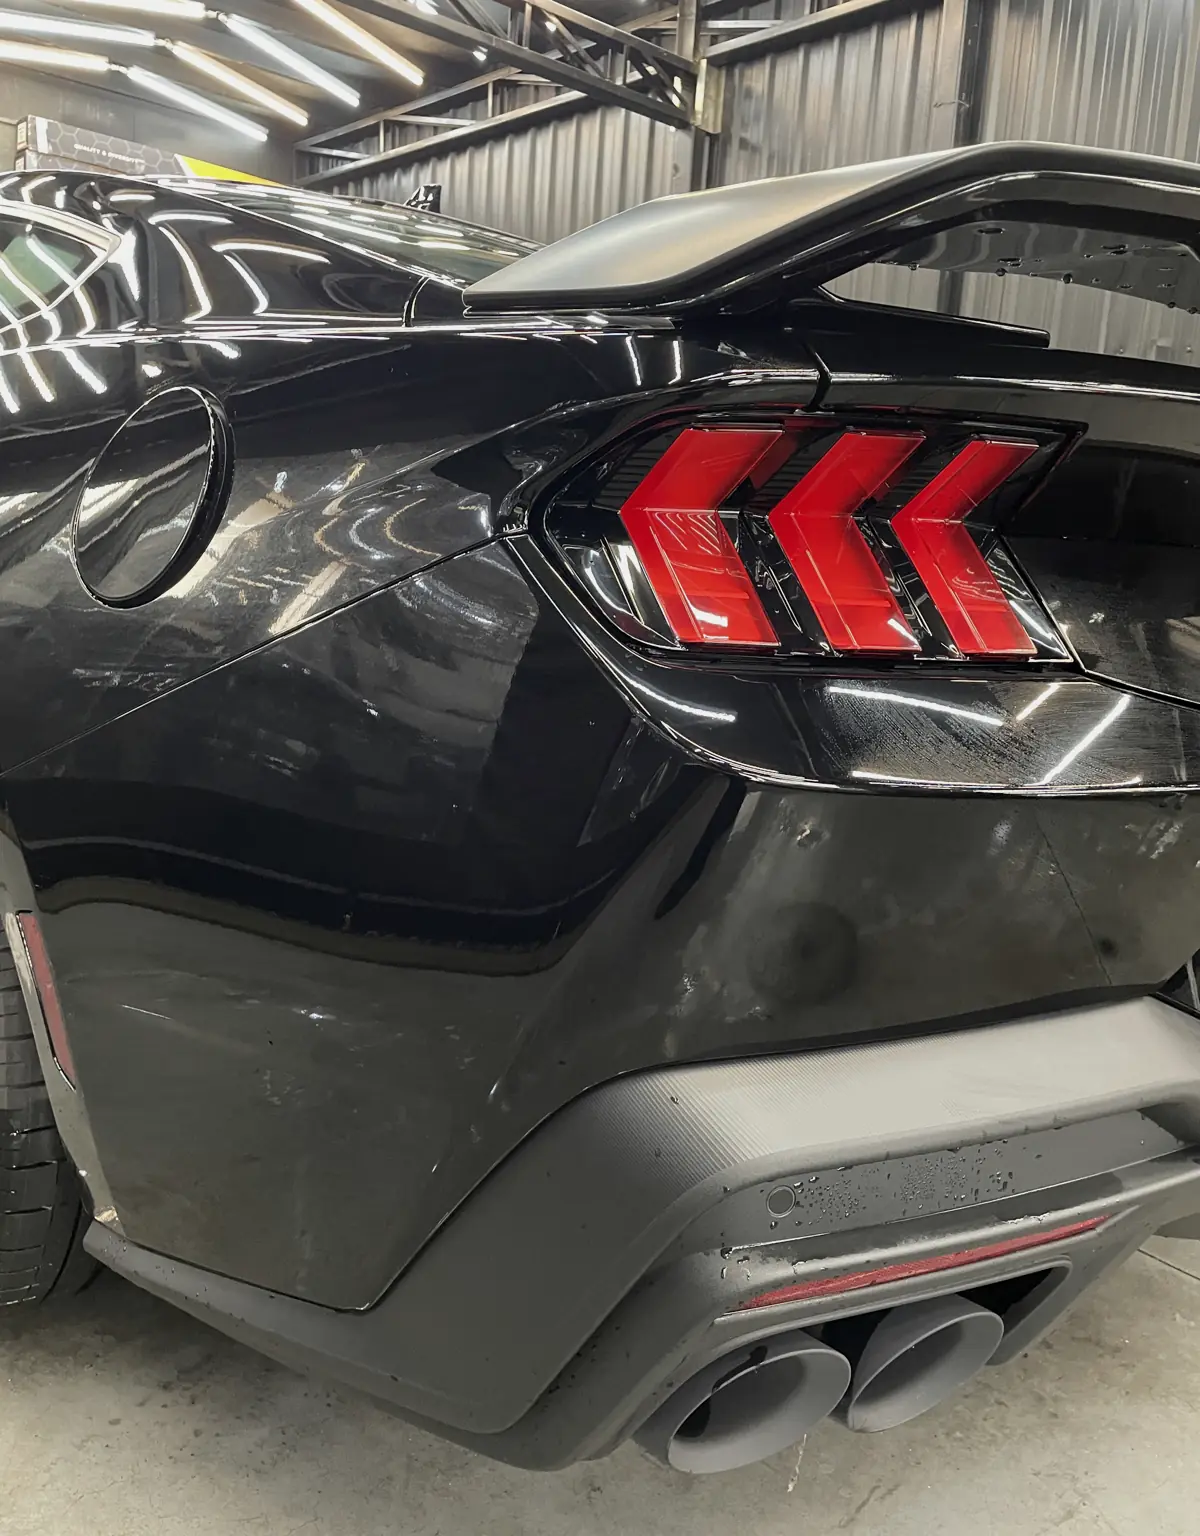
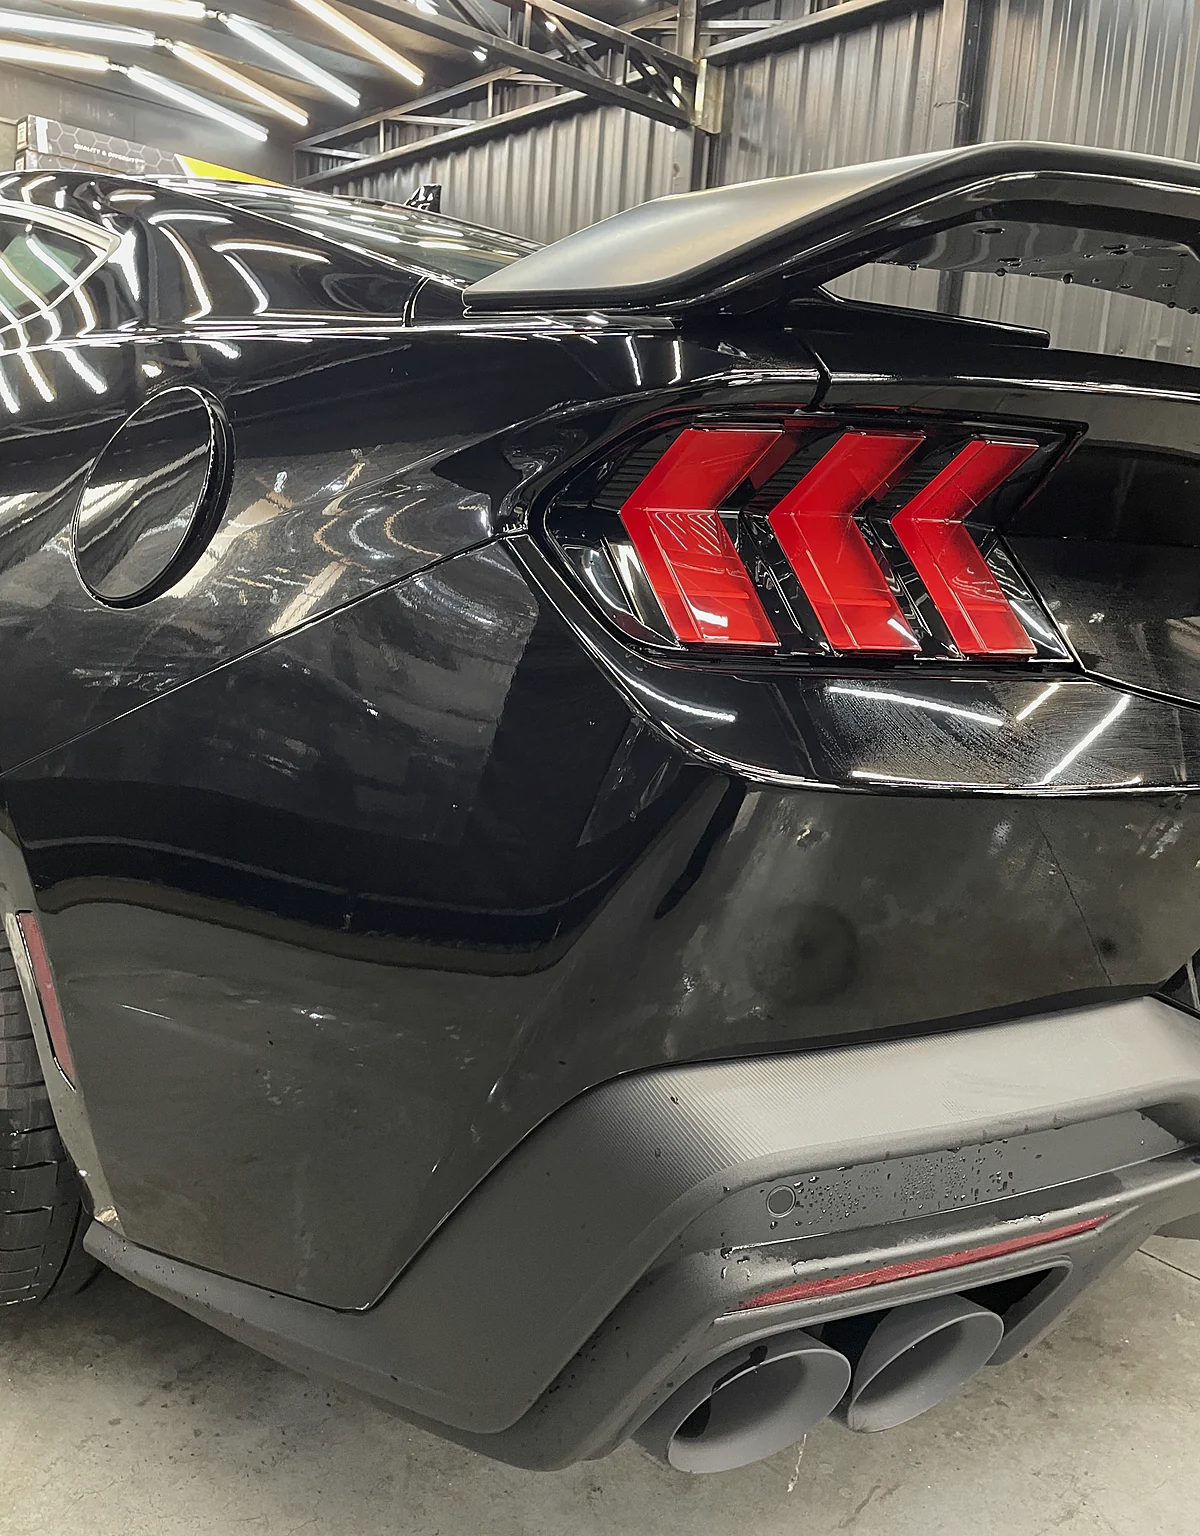
Fotos da hero em alta resolução
- Regera as seis fotos da hero direto dos originais: até 2000px no celular e 3200px no desktop, WebP q86 com nitidez de saída
- Corrige o sizes: a foto preenche a altura da tela, então no celular ela é mais larga que a tela; o iPhone agora baixa 1600 a 2000px em vez de 1200px
- Zoom lento menor (1.05 no desktop, 1.04 no celular) para não ampliar a foto além do arquivo
- og:image e og:url com endereço absoluto do domínio

diff --git a/index.html b/index.html
@@ -17,14 +17,15 @@ j=d.createElement(s),dl=l!='dataLayer'?'&l='+l:'';j.async=true;j.src=
 <meta property="og:locale" content="pt_BR">
 <meta property="og:title" content="Vallech | Do jeito certo, na primeira vez">
 <meta property="og:description" content="Funilaria, pintura, proteção e personalização para carros e picapes em Ponta Grossa.">
-<meta property="og:image" content="assets/img/hero-1600.webp">
+<meta property="og:image" content="https://vallechautomotivo.com/assets/img/hero-1920.webp">
+<meta property="og:url" content="https://vallechautomotivo.com/">
 <link rel="icon" href="assets/img/apple-touch-icon.png">
 <link rel="apple-touch-icon" href="assets/img/apple-touch-icon.png">
 <link rel="preload" href="assets/fonts/Kycron-Light.woff2" as="font" type="font/woff2" crossorigin>
 <link rel="preload" href="assets/fonts/archivo-latin.woff2" as="font" type="font/woff2" crossorigin>
-<link rel="preload" as="image" imagesrcset="assets/img/hs1-m-600.webp 600w, assets/img/hs1-m-900.webp 900w, assets/img/hs1-m-1200.webp 1200w" imagesizes="100vw" media="(max-width: 767px)">
-<link rel="preload" as="image" imagesrcset="assets/img/hero-960.webp 960w, assets/img/hero-1600.webp 1600w, assets/img/hero-2400.webp 2400w, assets/img/hero-3200.webp 3200w" imagesizes="100vw" media="(min-width: 768px)">
-<link rel="stylesheet" href="assets/css/style.css?v=d0f64344">
+<link rel="preload" as="image" imagesrcset="assets/img/hs1-m-800.webp 800w, assets/img/hs1-m-1200.webp 1200w, assets/img/hs1-m-1600.webp 1600w, assets/img/hs1-m-2000.webp 2000w" imagesizes="(max-aspect-ratio: 78/100) 78vh, 100vw" media="(max-width: 767px)">
+<link rel="preload" as="image" imagesrcset="assets/img/hero-1280.webp 1280w, assets/img/hero-1920.webp 1920w, assets/img/hero-2560.webp 2560w, assets/img/hero-3200.webp 3200w" imagesizes="(max-aspect-ratio: 3/2) 150vh, 100vw" media="(min-width: 768px)">
+<link rel="stylesheet" href="assets/css/style.css?v=8ea2e525">
 <script>
   // Motion só entra quando o visitante não pediu menos movimento. Se o GSAP não iniciar em 3s, o conteúdo aparece mesmo assim.
   if (!matchMedia('(prefers-reduced-motion: reduce)').matches) {
@@ -94,20 +95,20 @@ height="0" width="0" style="display:none;visibility:hidden"></iframe></noscript>
     <div class="hero-media" data-hero-media>
       <div class="hero-slide is-on" data-slide>
         <picture>
-          <source media="(max-width: 767px)" srcset="assets/img/hs1-m-600.webp 600w, assets/img/hs1-m-900.webp 900w, assets/img/hs1-m-1200.webp 1200w" sizes="100vw">
-          <img src="assets/img/hero-1600.webp" srcset="assets/img/hero-960.webp 960w, assets/img/hero-1600.webp 1600w, assets/img/hero-2400.webp 2400w, assets/img/hero-3200.webp 3200w" sizes="100vw" width="3200" height="2133" fetchpriority="high" decoding="async" alt="Ford Mustang Dark Horse preto na cabine de luz da Vallech, com as lanternas vermelhas acesas">
+          <source media="(max-width: 767px)" srcset="assets/img/hs1-m-800.webp 800w, assets/img/hs1-m-1200.webp 1200w, assets/img/hs1-m-1600.webp 1600w, assets/img/hs1-m-2000.webp 2000w" sizes="(max-aspect-ratio: 78/100) 78vh, 100vw">
+          <img src="assets/img/hero-1920.webp" srcset="assets/img/hero-1280.webp 1280w, assets/img/hero-1920.webp 1920w, assets/img/hero-2560.webp 2560w, assets/img/hero-3200.webp 3200w" sizes="(max-aspect-ratio: 3/2) 150vh, 100vw" width="3200" height="2133" fetchpriority="high" decoding="async" alt="Ford Mustang Dark Horse preto na cabine de luz da Vallech, com as lanternas vermelhas acesas">
         </picture>
       </div>
       <div class="hero-slide" data-slide>
         <picture>
-          <source media="(max-width: 767px)" srcset="assets/img/hs2-m-600.webp 600w, assets/img/hs2-m-900.webp 900w, assets/img/hs2-m-1200.webp 1200w" sizes="100vw">
-          <img src="assets/img/hs2-d-1600.webp" srcset="assets/img/hs2-d-960.webp 960w, assets/img/hs2-d-1600.webp 1600w, assets/img/hs2-d-2400.webp 2400w" sizes="100vw" width="2400" height="1792" fetchpriority="low" decoding="async" alt="Ford Ranger Raptor cinza na cabine da Vallech, depois do reparo da frente">
+          <source media="(max-width: 767px)" srcset="assets/img/hs2-m-800.webp 800w, assets/img/hs2-m-1200.webp 1200w, assets/img/hs2-m-1600.webp 1600w, assets/img/hs2-m-2000.webp 2000w" sizes="(max-aspect-ratio: 96/100) 96vh, 100vw">
+          <img src="assets/img/hs2-d-1920.webp" srcset="assets/img/hs2-d-1280.webp 1280w, assets/img/hs2-d-1920.webp 1920w, assets/img/hs2-d-2560.webp 2560w, assets/img/hs2-d-3024.webp 3024w" sizes="(max-aspect-ratio: 1339/1000) 134vh, 100vw" width="3024" height="2258" fetchpriority="low" decoding="async" alt="Ford Ranger Raptor cinza na cabine da Vallech, depois do reparo da frente">
         </picture>
       </div>
       <div class="hero-slide" data-slide>
         <picture>
-          <source media="(max-width: 767px)" srcset="assets/img/hs3-m-600.webp 600w, assets/img/hs3-m-900.webp 900w, assets/img/hs3-m-1200.webp 1200w" sizes="100vw">
-          <img src="assets/img/hs3-d-1600.webp" srcset="assets/img/hs3-d-960.webp 960w, assets/img/hs3-d-1600.webp 1600w, assets/img/hs3-d-2400.webp 2400w" sizes="100vw" width="2400" height="1600" fetchpriority="low" decoding="async" alt="Ford Mustang Mach-E cinza fosco com o farol aceso, na cabine da Vallech">
+          <source media="(max-width: 767px)" srcset="assets/img/hs3-m-800.webp 800w, assets/img/hs3-m-1200.webp 1200w, assets/img/hs3-m-1600.webp 1600w, assets/img/hs3-m-2000.webp 2000w" sizes="(max-aspect-ratio: 94/100) 94vh, 100vw">
+          <img src="assets/img/hs3-d-1920.webp" srcset="assets/img/hs3-d-1280.webp 1280w, assets/img/hs3-d-1920.webp 1920w, assets/img/hs3-d-2560.webp 2560w, assets/img/hs3-d-3200.webp 3200w" sizes="(max-aspect-ratio: 3/2) 150vh, 100vw" width="3200" height="2133" fetchpriority="low" decoding="async" alt="Ford Mustang Mach-E cinza fosco com o farol aceso, na cabine da Vallech">
         </picture>
       </div>
     </div>

diff --git a/assets/css/style.css b/assets/css/style.css
@@ -195,7 +195,6 @@ figcaption, .rail p {
 .hero-media {
   position: absolute;
   inset: 0;
-  will-change: transform;
   pointer-events: none;
 }
 /* Três fotos em fade cruzado. A que está na tela se afasta devagar; a que sai continua o movimento enquanto some. */
@@ -204,7 +203,7 @@ figcaption, .rail p {
 .hero-slide picture, .hero-slide img { width: 100%; height: 100%; display: block; }
 .hero-slide img {
   object-fit: cover;
-  transform: scale(1.12);
+  transform: scale(1.05); /* zoom curto: ampliar mais que isso borra a foto */
   transition: transform 8s cubic-bezier(0.2, 0, 0.3, 1);
 }
 .hero-slide.is-on img { transform: scale(1); }
@@ -807,7 +806,7 @@ figcaption, .rail p {
   .dock { display: flex; }
 
   /* Celular: foto vertical em tela cheia, texto por cima no degradê. Nada de faixa solta. */
-  .hero-slide img { transform: scale(1.07); }
+  .hero-slide img { transform: scale(1.04); }
   .hero-slide:nth-child(1) img { object-position: 68% 40%; transform-origin: 72% 35%; }
   .hero-slide:nth-child(2) img { object-position: 42% 50%; transform-origin: 45% 35%; }
   .hero-slide:nth-child(3) img { object-position: 56% 50%; transform-origin: 60% 30%; }
